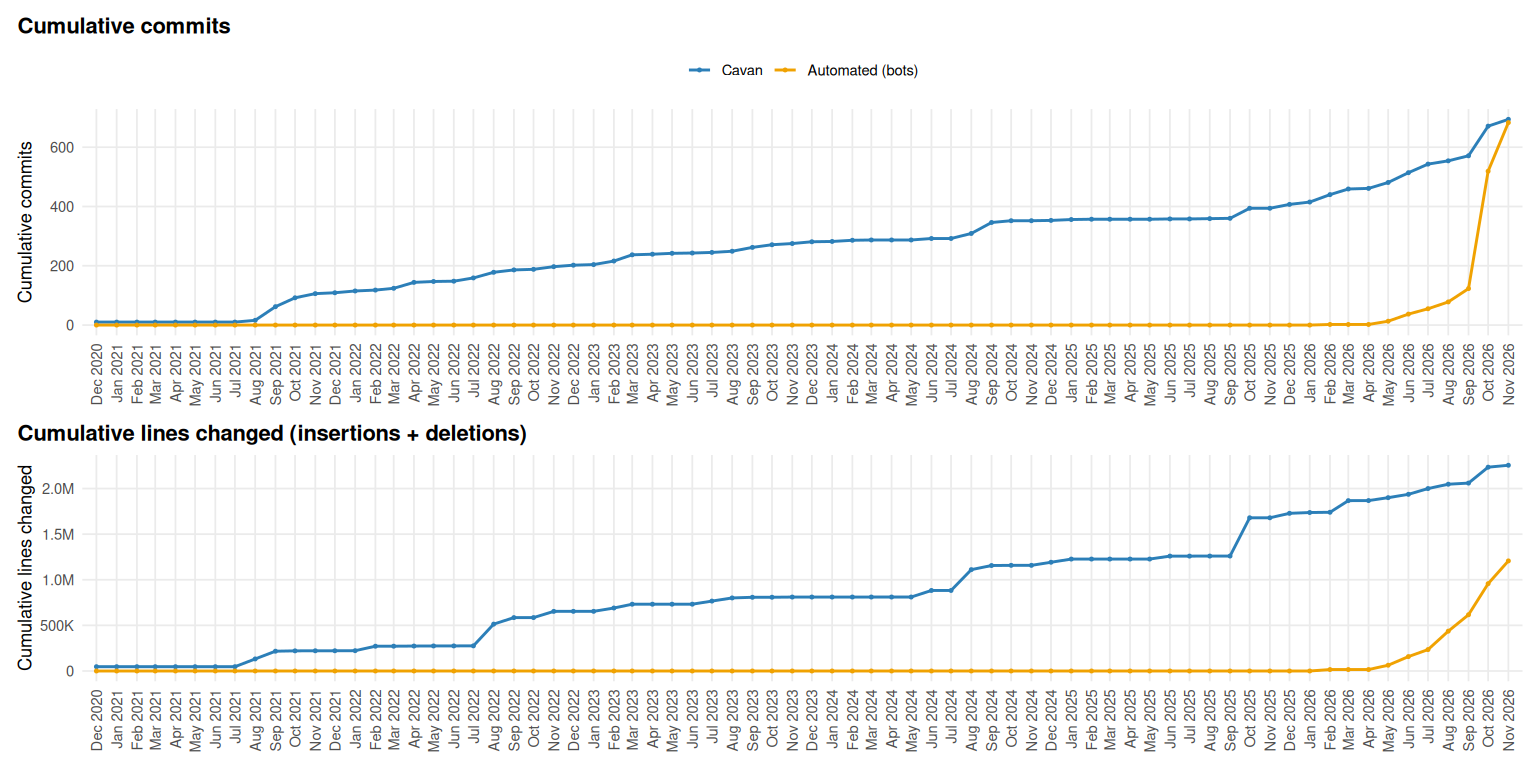
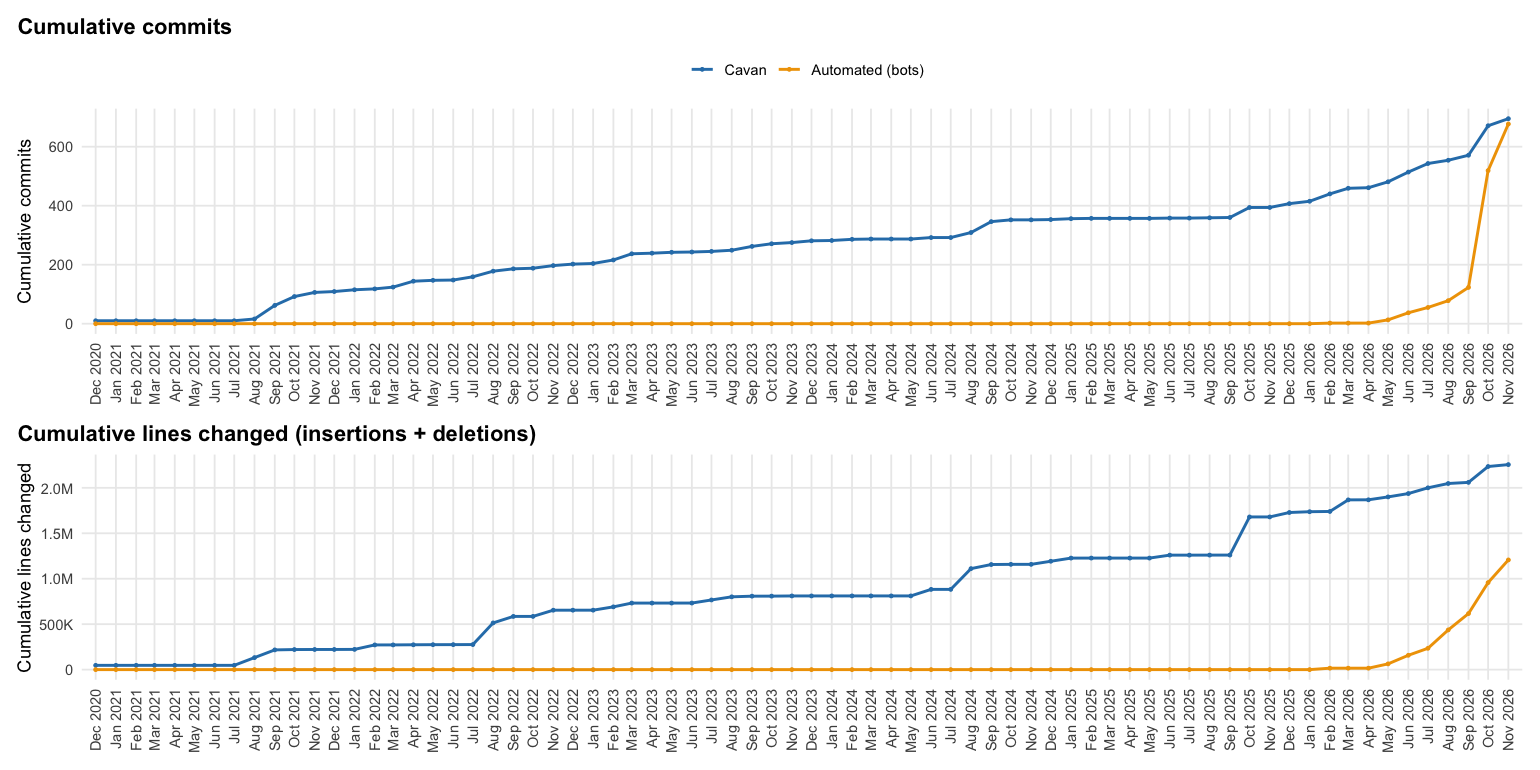
Bundle repo hygiene quick wins (#357)
Fix FIPS zero padding in hud_fmr_data.R: sprintf("%05s") pads with
spaces on Linux, so the follow-up str_pad was a no-op and single-digit
state FIPS codes broke joins. Pin crate-ci/typos to a release instead of
master. Add Dependabot npm coverage for tools/tohs-apps-script. Keep
root .dotx/.xlsx files out of the rendered site. Document
personalized-email-test.yml in the README, which was the only workflow
missing from it.

diff --git a/README.md b/README.md
@@ -222,6 +222,9 @@ run instead of landing on `main`.
 - `typos.yml` – on-PR spell check.
 - `pr-smoke.yml` – on-PR fast render of only the changed Rmds.
 - `test.yml` – R test suite (`scripts/run_tests.R`) on PRs and pushes.
+- `personalized-email-test.yml` – dry run of the personalized email
+  script on PRs that touch it; a manual dispatch with `send_email` on
+  sends one real test email.
 
 ### Side apps
 
@@ -236,7 +239,8 @@ run instead of landing on `main`.
 
 ### Repo hygiene
 
-- `.github/dependabot.yml` – weekly bump of pinned GitHub Actions.
+- `.github/dependabot.yml` – weekly bump of pinned GitHub Actions and
+  the npm deps for movie-ranker and the TOHS Apps Script.
 - `dependabot-automerge.yml` – squash-merges minor/patch Dependabot PRs
   once all other checks pass.
 - `labeler.yml` – auto-label PRs by changed paths.
@@ -254,8 +258,8 @@ above. Regenerated each time `README.Rmd` is knit.
 
 <img src="images/readme/commit-activity-cumulative-1.png" alt="Two cumulative line charts showing total commits and total lines changed (insertions + deletions) over time, split by Cavan's own commits vs. scheduled-bot commits."  />
 
-*1,377 commits from Dec 2020 to Nov 2026 (694 by me, 683 by scheduled
-bots), touching 3,462,391 lines in total.*
+*1,372 commits from Dec 2020 to Nov 2026 (695 by me, 677 by scheduled
+bots), touching 3,462,364 lines in total.*
 
 ## Setup and Local Development
 
